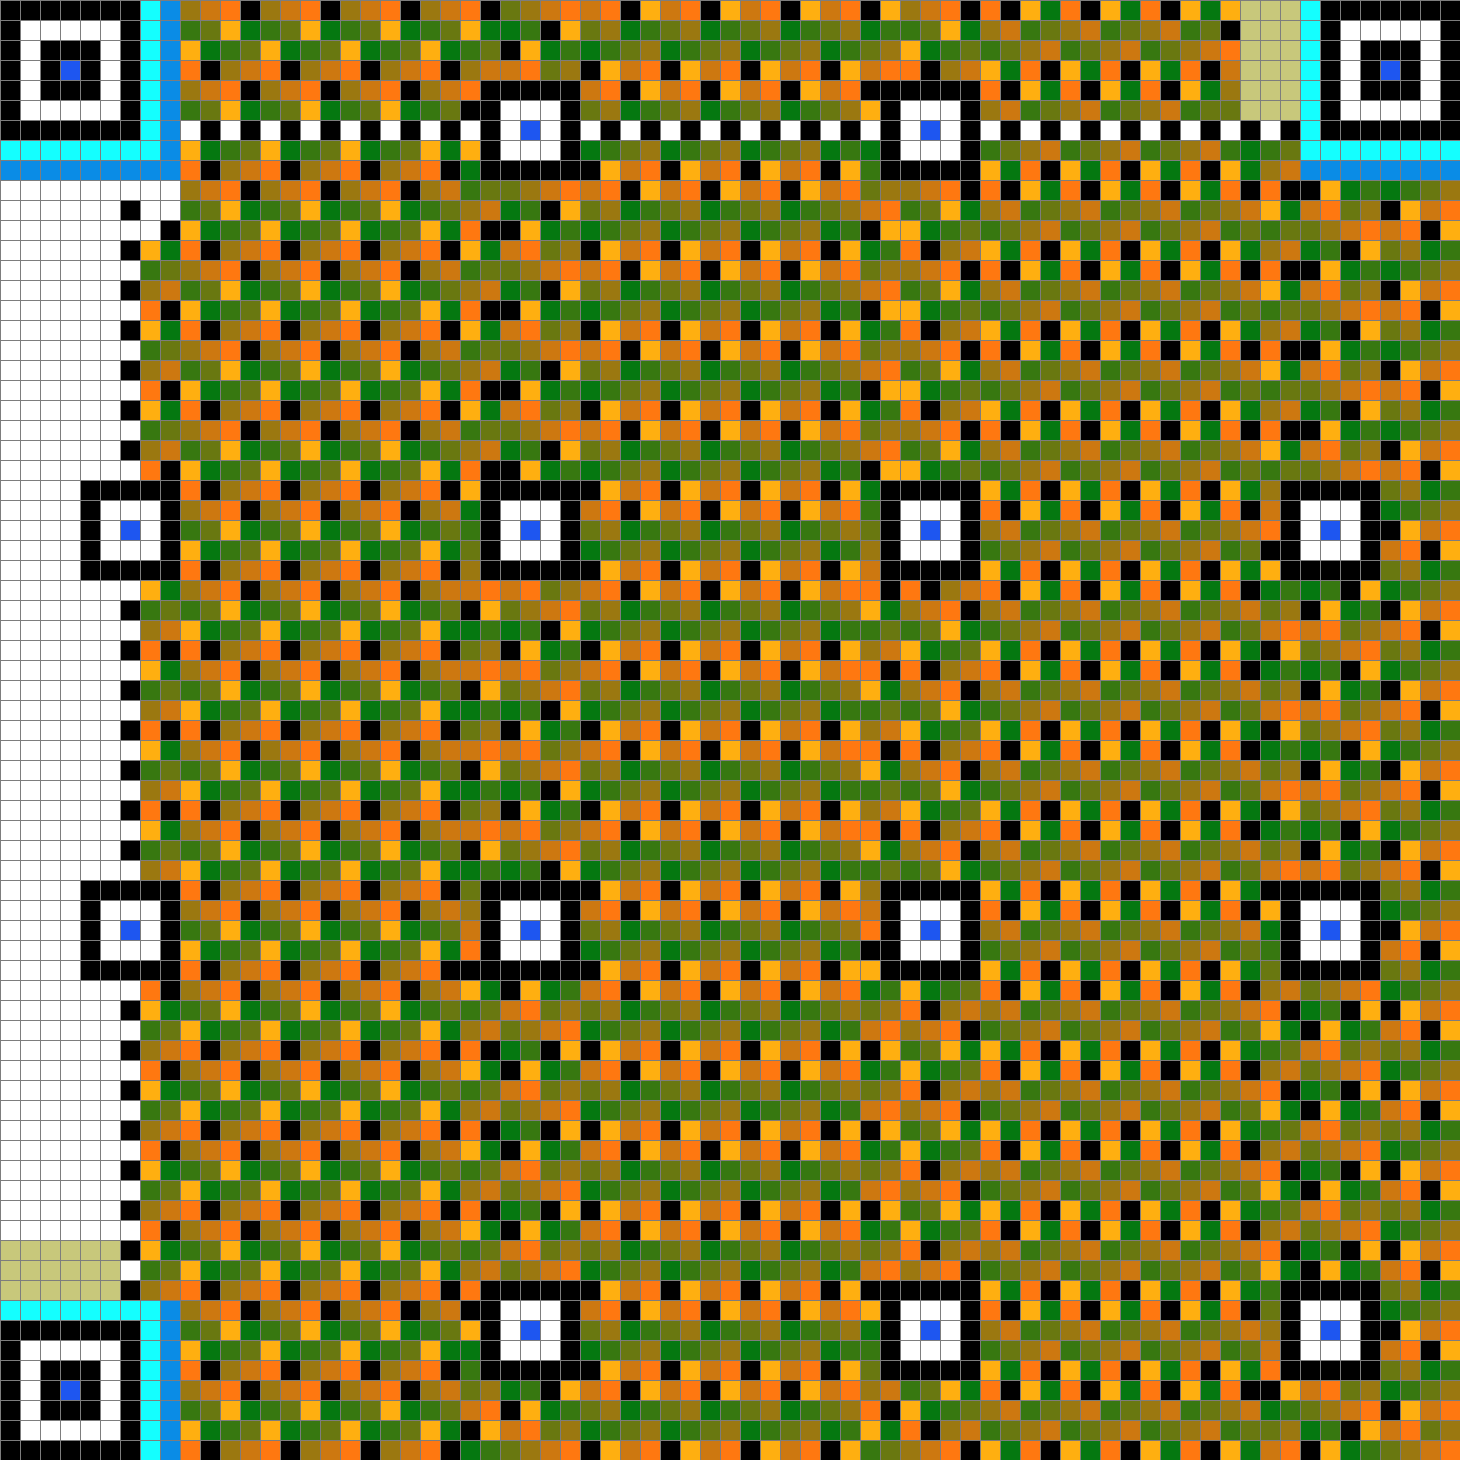
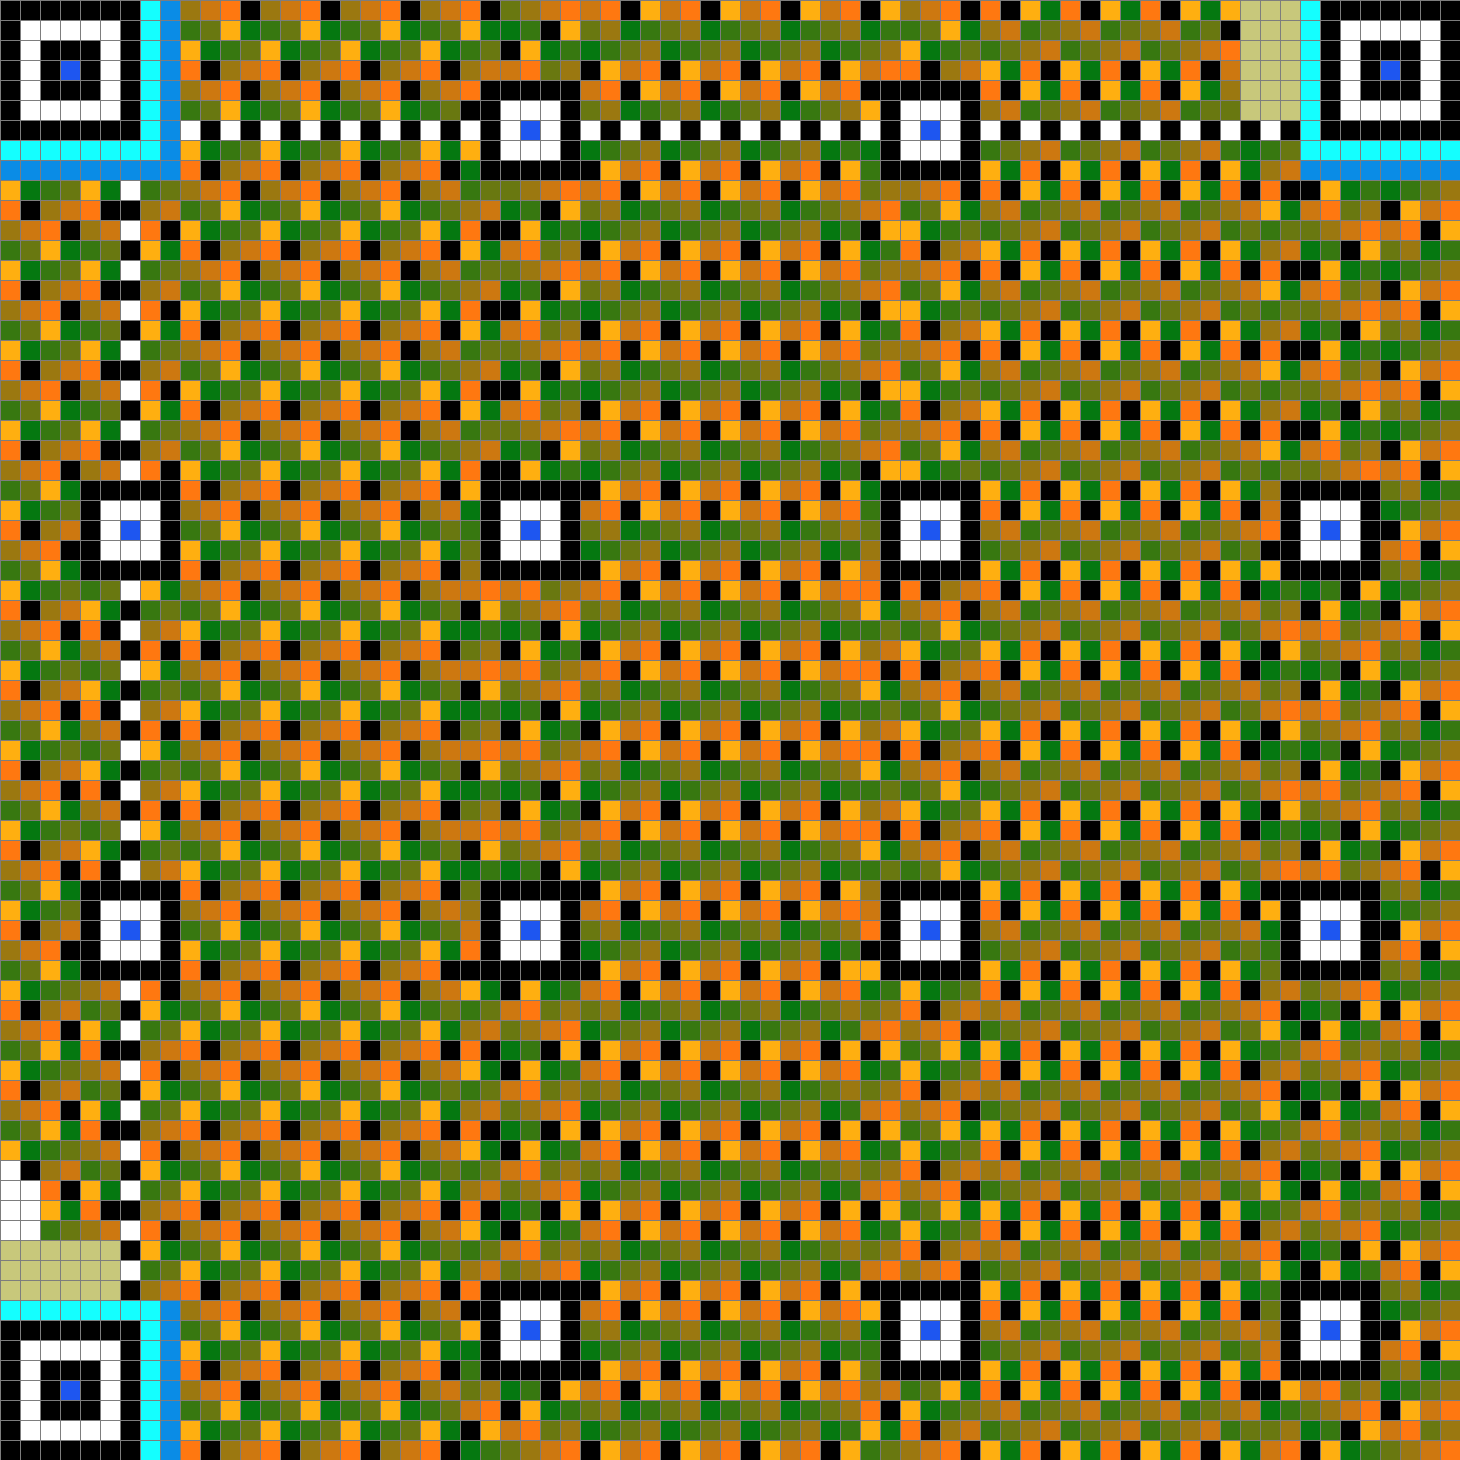
MOTHER FUCKING DONE

Changed region(s): [[0.0, 0.1233, 0.1233, 0.863]]

diff --git a/src/qr_encoder/area.rs b/src/qr_encoder/area.rs
@@ -106,6 +106,8 @@ impl Area {
                     self.current_index + size
                 } else if self.algn & 0b0100 == 0b0100 {
                     self.current_index + size + 1
+                } else if prev_area.timing > 0 {
+                    self.current_index + size + 1
                 } else {
                     self.current_index - 1
                 }
@@ -135,6 +137,10 @@ impl Area {
                     self.prev_index + (size * 6)
                 } else if self.current_index + 1 == self.prev_index && self.algn == UPPER_RIGHT {
                     self.current_index - size
+                } else if self.current_index + 1 == self.prev_index && self.algn == LOWER_RIGHT {
+                    self.current_index + (size * 6) + 1
+                } else if self.current_index + 1 == self.prev_index && prev_area.timing == LOWER_RIGHT {
+                    self.current_index + size + 1
                 } else {
                     self.current_index - 1
                 }
@@ -195,6 +201,10 @@ impl Area {
                     self.current_index - size + 1
                 } else if self.free == 0b1110 {
                     self.current_index + size + 1
+                } else if prev_area.timing == LEFT {
+                    self.current_index - 1
+                } else if prev_area.timing > 0 && self.off == BOTTOM {
+                    self.current_index - 1
                 } else if prev_area.timing > 0 {
                     self.current_index + size
                 } else if self.off == 0b1110 {
@@ -257,7 +267,7 @@ impl Area {
                     self.current_index + (size * 2) + 1
                 } else if self.off == LEFT {
                     self.current_index + (size * 2) + 1
-                } else if self.off == TOP {
+                } else if self.off == TOP && self.prev_index - self.current_index == 1 {
                     self.current_index - 2
                 } else if self.algn == TOP && self.timing == LOWER_LEFT {
                     self.current_index - (size * 6) + 1

diff --git a/src/main.rs b/src/main.rs
@@ -60,11 +60,13 @@ fn main() {
 
     let mut character_position = 0;
     // for s in sample.into_bytes().into_iter() {
-    for s in 0..543 {
+    for s in 0..580 {
         println!("Character: {}, position: {}", s, character_position);
         position = qr.encode_chunk(s as u8, 8, position);
         character_position += 1;
     }
+
+    // qr.encode_chunk(10, 10, position);
 
     create_qr_image(qr);
 }
